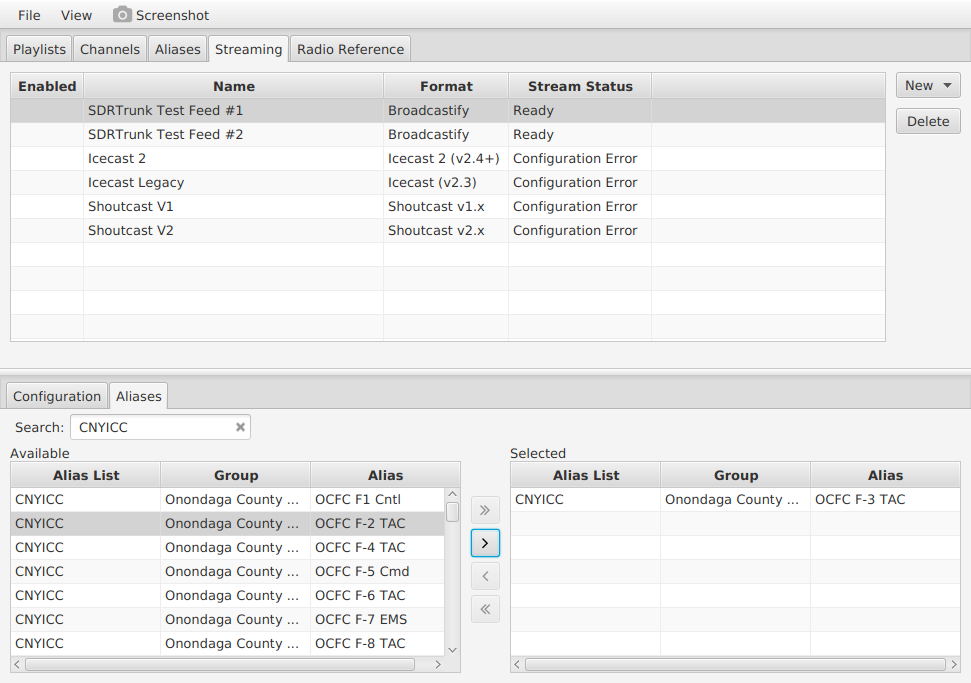
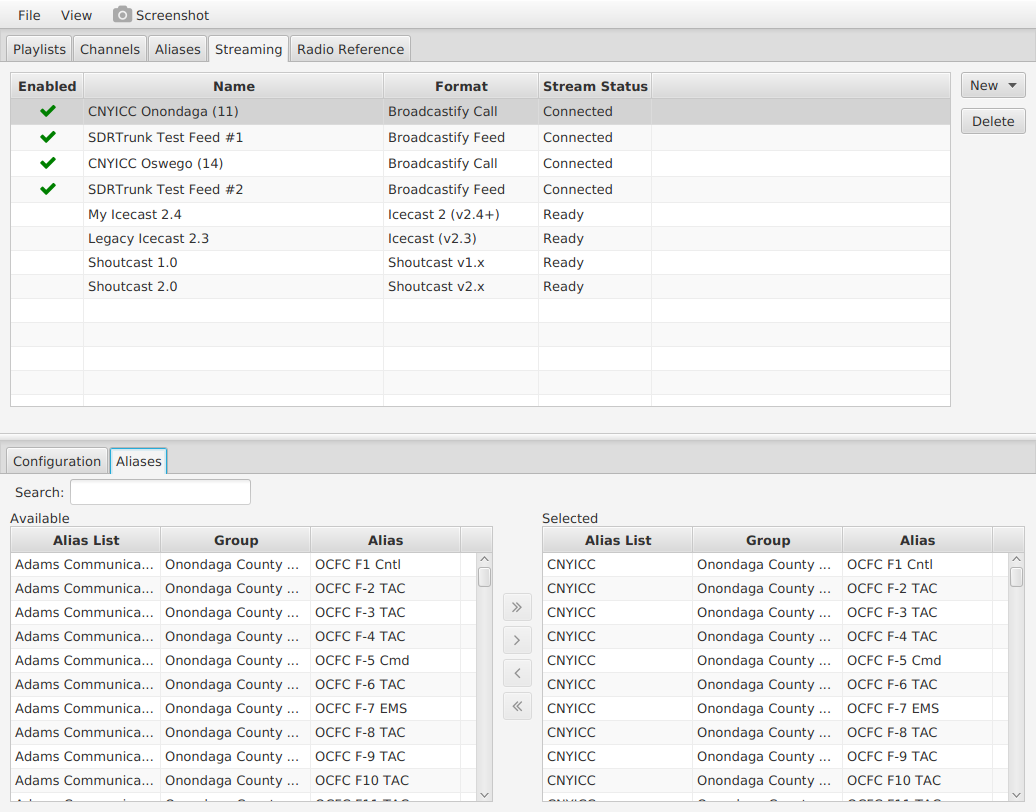
Editing the initial version of the playlist editor user manual.

diff --git a/Playlist-Editor.md b/Playlist-Editor.md
@@ -20,13 +20,13 @@ The playlist table provides a list of playlist files available to sdrtrunk.  The
 * **Select** - makes the selected playlist the active playlist.  This will unload the current playlist and load the selected playlist.  Any actively decoding channels will be stopped.  All channels, aliases and stream configurations from the current playlist will be removed and the channels, aliases and stream configurations for the selected playlist will be loaded.
 * **New** - creates a new empty playlist.
 * **Add** - adds a playlist to the editor.  Use this button to add other playlists to the editor that are in different folders than the sdrtrunk playlist folder.
-* **Remove** - removes the currently selected playlist from sdrtrunk.  Does NOT delete the file.
-* **Clone** - creates a comlete copy of the currently selected playlist.
+* **Remove** - removes the currently selected playlist from sdrtrunk.  This does NOT delete the file.
+* **Clone** - creates a complete copy of the currently selected playlist.
 * **Delete** - removes the currently selected playlist from sdrtrunk AND deletes the file from the file system.
 
 ## Channels
 The channels tab lists the channel configurations for the currently selected playlist.  A channel configuration has
-all of the details needed to setup a decoder for a channel to include logging and some recording settings.  
+the details needed to set up a decoder for a channel to include logging and some recording settings.  
 
 ![Channel Editor](images/channel_editor.png)
 
@@ -310,7 +310,7 @@ top of the tab is a table of stream configurations and buttons for creating or d
 * **Delete** - deletes the selected streaming configuration.
 
 **NOTE**: use the **Radio Reference** tab to login to radioreference.com before you attempt to create any Broadcastify
-streams.
+feeds.
 
 ![Streaming Configuration Editor](images/streaming_configuration.png)
 
@@ -325,19 +325,70 @@ The editor contains various additional fields required for each of the audio str
 
 
 ### Streaming - Aliases Editor
-The aliases tab provides easy control over selecting aliases for an audio stream.
+The aliases tab provides easy control over selecting aliases for an audio stream.  Aliases in the **Available** list are 
+available to add to the stream.  Aliases listed in the **Selected** list are the aliases that are currently selected for
+the stream.  Use the left/right arrow buttons to select aliases to stream or to remove aliases that are currently
+selected for streaming.
 
 ![Streaming Configuration Editor](images/streaming_alias_selection.png)
 
 * **Search** - search for aliases by alias list, group, or name.  When you type characters in the search box, both 
 the available and selected lists are filtered to aliases that match your search text.
-* **Availabe** - aliases available for streaming
+* **Available** - aliases available for streaming
 * **Selected** - aliases that will be streamed
 * **Arrow Buttons** - select alias(es) in either list and use the arrow buttons to move to the other list.  Use the 
 Shift or Control keys in combination with mouse clicks to select multiple aliases.
 
 ## Radio Reference
-Work in progress ...
+The radio reference tab provides access to radio system and talkgroup details contained in the 
+[RadioReference.com](https://www.radioreference.com/premium/) online database.  
+
+**Note:** access to this database requires a premium subscription.
+
+### Radio Reference - Login
+The Login button is located in the upper-right corner of the playlist editor tab.  Click the button to open the login 
+window.
+
+![Radio Reference Login](images/radio_reference_login.png)
+
+* **User Name** - user name for RadioReference
+* **Password** - password for RadioReference  
+* **Show** - shows the password or displays asterisks to hide the password (*)
+* **Store Login Credentials** - stores your username and password on your computer and will automatically login to 
+RadioReference each time you launch the software.  
+**WARNING** if you choose this option, your login credentials will be
+stored on your computer to your local user profile using clear plaintext without any protection or encryption.
+* **Test Connection** - tests to determine if the user name and password are valid and the premium account subscription
+is not expired.
+* **Cancel** - closes the login dialog without making any changes
+* **OK** = closes the login dialog and attempts to login with the user name and password.
+
+### Radio Reference - Overview
+The top of the radio reference editor tab provides user account information, a login button, and three dropdown boxes
+allowing you to select **Country**, **State** and **County** filters.  As you change each filter, the other filters 
+will reset to display new options.  For example, if you change the Country filter, the State filter will update with
+the states for that country and the County filter will be cleared until you select a new state.
+
+The radio reference editor stores the filters and systems or agencies that you last access so that these same values
+are selected and restored each time you launch the playlist editor.
+
+Below the Country, State and County filters are tabs to display the search results for trunked systems and agencies at 
+each of the National, State and County levels.
+
+![Radio Reference Overview](images/radio_reference_overview.png)
+
+### Radio Reference - Trunked System: State and County
+These trunked system tabs show the search results for the currently selected Country, State and County filters. The
+**System** drop-down box allows you to select from each of the trunked radio systems.
+
+### Radio Reference - Trunked System: System View
+
+
+
+TODO: put a screen shot of the talkgroup view here
+### Radio Reference - Trunked System: Talkgroup View
+
+
 
 # Access The Playlist Editor
 Work in progress ...
